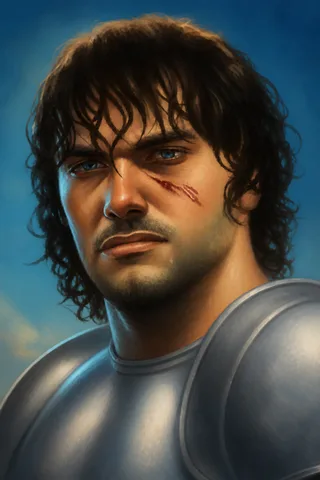
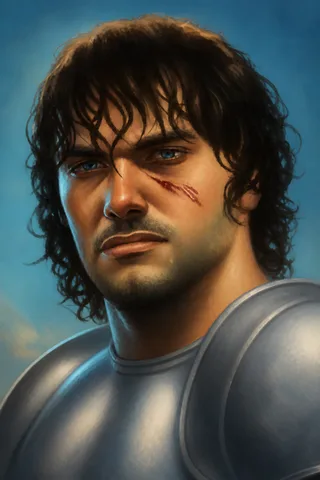
feat(web): refine role artwork presentation (#17)
* feat(web): brighten loyal servant role artwork

* feat(web): refine role help presentation

Changed region(s): [[0.0, 0.0, 1.0, 0.625], [0.9062, 0.4688, 0.9688, 0.5625]]

diff --git a/apps/web/src/HelpDialog.tsx b/apps/web/src/HelpDialog.tsx
@@ -3,6 +3,7 @@ import {
   useRef,
   type KeyboardEvent,
 } from 'react'
+import { ChevronDown } from 'lucide-react'
 
 import { loyaltyForRole, type Role } from '@avalon/game'
 
@@ -187,7 +188,7 @@ function RulesHelpPanel({ playerCount }: { playerCount?: number }) {
         <details className="group rounded-2xl border border-white/10 bg-slate-950/35">
           <summary className="flex min-h-12 cursor-pointer list-none items-center justify-between gap-3 px-4 py-3 font-semibold text-slate-100 focus-visible:outline-none focus-visible:ring-2 focus-visible:ring-inset focus-visible:ring-amber-300">
             关键规则
-            <span aria-hidden="true" className="text-slate-400 transition group-open:rotate-180">⌄</span>
+            <ChevronDown aria-hidden="true" className="size-5 shrink-0 self-center text-slate-400 transition-transform group-open:rotate-180" strokeWidth={2} />
           </summary>
           <ul className="space-y-2 border-t border-white/10 px-4 py-4 text-sm leading-6 text-slate-300">
             {HELP_KEY_RULES.map((rule) => <li key={rule}>• {rule}</li>)}
@@ -197,7 +198,7 @@ function RulesHelpPanel({ playerCount }: { playerCount?: number }) {
         <details className="group rounded-2xl border border-white/10 bg-slate-950/35">
           <summary className="flex min-h-12 cursor-pointer list-none items-center justify-between gap-3 px-4 py-3 font-semibold text-slate-100 focus-visible:outline-none focus-visible:ring-2 focus-visible:ring-inset focus-visible:ring-amber-300">
             人数配置
-            <span aria-hidden="true" className="text-slate-400 transition group-open:rotate-180">⌄</span>
+            <ChevronDown aria-hidden="true" className="size-5 shrink-0 self-center text-slate-400 transition-transform group-open:rotate-180" strokeWidth={2} />
           </summary>
           <div className="overflow-x-auto border-t border-white/10 p-3 sm:p-4">
             <table className="w-full min-w-[38rem] text-left text-xs sm:text-sm">
@@ -305,7 +306,7 @@ function HelpRoleCard({
             <dd className="mt-1 text-slate-400">{guidance.objective}</dd>
           </div>
           <div>
-            <dt className="font-semibold text-slate-200">新手提示</dt>
+            <dt className="font-semibold text-slate-200">提示</dt>
             <dd className="mt-1 text-slate-400">{guidance.beginnerTip}</dd>
           </div>
         </dl>
@@ -316,7 +317,7 @@ function HelpRoleCard({
 
 function HelpRoleArtwork({ role }: { role: Role }) {
   const artwork = HELP_ROLE_ARTWORK[role]
-  const className = 'w-[5.5rem] overflow-hidden rounded-xl border border-white/15 bg-slate-950/35 sm:aspect-[4/3] sm:w-auto'
+  const className = 'relative isolate w-[5.5rem] overflow-hidden rounded-xl border border-white/15 bg-slate-950/35 sm:aspect-[4/3] sm:w-auto'
 
   if (artwork === undefined) {
     return (
@@ -328,18 +329,41 @@ function HelpRoleArtwork({ role }: { role: Role }) {
     )
   }
 
+  const src = `/images/roles/${artwork.slug}-674.webp`
+  const srcSet = `/images/roles/${artwork.slug}-320.webp 320w, /images/roles/${artwork.slug}-480.webp 480w, /images/roles/${artwork.slug}-674.webp 674w`
+
   return (
     <div aria-hidden="true" className={className}>
       <img
         alt=""
-        className="block h-auto w-full sm:size-full sm:object-contain"
+        aria-hidden="true"
+        className="absolute inset-0 hidden size-full scale-[1.08] object-cover blur-[18px] brightness-[.55] saturate-[.8] sm:block"
+        data-help-role-artwork-backdrop={role}
+        decoding="async"
+        height={artwork.height}
+        loading="lazy"
+        sizes={HELP_ROLE_ARTWORK_SIZES}
+        src={src}
+        srcSet={srcSet}
+        width={artwork.width}
+      />
+      <div
+        aria-hidden="true"
+        className="absolute inset-0 hidden sm:block"
+        style={{
+          backgroundImage: 'radial-gradient(ellipse at center, transparent 35%, rgb(2 6 23 / 0.18) 72%, rgb(2 6 23 / 0.42) 100%), linear-gradient(to bottom, rgb(15 23 42 / 0.02) 0%, rgb(15 23 42 / 0.08) 55%, rgb(2 6 23 / 0.30) 100%)',
+        }}
+      />
+      <img
+        alt=""
+        className="relative z-10 block h-auto w-full sm:size-full sm:object-contain"
         data-help-role-artwork={role}
         decoding="async"
         height={artwork.height}
         loading="lazy"
         sizes={HELP_ROLE_ARTWORK_SIZES}
-        src={`/images/roles/${artwork.slug}-674.webp`}
-        srcSet={`/images/roles/${artwork.slug}-320.webp 320w, /images/roles/${artwork.slug}-480.webp 480w, /images/roles/${artwork.slug}-674.webp 674w`}
+        src={src}
+        srcSet={srcSet}
         width={artwork.width}
       />
     </div>

diff --git a/apps/web/tests/HelpDialog.test.tsx b/apps/web/tests/HelpDialog.test.tsx
@@ -4,6 +4,21 @@ import { describe, expect, it, vi } from 'vitest'
 import { HelpDialog } from '../src/HelpDialog'
 
 describe('HelpDialog', () => {
+  it('uses shared Lucide disclosure icons for the rules sections', () => {
+    const html = renderToStaticMarkup(
+      <HelpDialog
+        activeTab="rules"
+        focusRoles={false}
+        onActiveTabChange={vi.fn()}
+        onRequestClose={vi.fn()}
+        open
+        requestID={1}
+      />,
+    )
+
+    expect(html.match(/lucide-chevron-down/g)).toHaveLength(2)
+  })
+
   it('renders semantic tabs and prioritizes contextual roles', () => {
     const html = renderToStaticMarkup(
       <HelpDialog
@@ -36,22 +51,42 @@ describe('HelpDialog', () => {
       />,
     )
 
-    expect(html.match(/data-help-role-artwork=/g) ?? []).toHaveLength(6)
-    expect(html).toContain('data-help-role-artwork="merlin"')
-    expect(html).toContain('/images/roles/merlin-320.webp 320w')
-    expect(html).toContain('/images/roles/merlin-480.webp 480w')
-    expect(html).toContain('/images/roles/merlin-674.webp 674w')
-    expect(html).toContain('/images/roles/loyal-servant-320.webp 320w')
-    expect(html).toContain('/images/roles/loyal-servant-480.webp 480w')
-    expect(html).toContain('/images/roles/loyal-servant-674.webp 674w')
-    expect(html).toContain('/images/roles/minion-320.webp 320w')
-    expect(html).toContain('/images/roles/minion-480.webp 480w')
-    expect(html).toContain('/images/roles/minion-674.webp 674w')
-    expect(html).toContain('sizes="(min-width: 1024px) 18rem, (min-width: 640px) 42vw, 5.5rem"')
-    expect(html).toMatch(/<img(?=[^>]*data-help-role-artwork="merlin")(?=[^>]*width="674")(?=[^>]*height="1010")[^>]*>/)
-    expect(html).toMatch(/<img(?=[^>]*data-help-role-artwork="assassin")(?=[^>]*width="674")(?=[^>]*height="1051")[^>]*>/)
-    expect(html).toMatch(/<img(?=[^>]*data-help-role-artwork="loyal_servant")(?=[^>]*width="674")(?=[^>]*height="1010")[^>]*>/)
-    expect(html).toMatch(/<img(?=[^>]*data-help-role-artwork="minion")(?=[^>]*width="674")(?=[^>]*height="1010")[^>]*>/)
+    const foregroundImages = html.match(/<img(?=[^>]*data-help-role-artwork=)[^>]*>/g) ?? []
+    const backdropImages = html.match(/<img(?=[^>]*data-help-role-artwork-backdrop=)[^>]*>/g) ?? []
+
+    expect(foregroundImages).toHaveLength(6)
+    expect(backdropImages).toHaveLength(6)
+
+    const artworkByRole = [
+      { height: 1010, role: 'merlin', slug: 'merlin' },
+      { height: 1010, role: 'percival', slug: 'percival' },
+      { height: 1010, role: 'loyal_servant', slug: 'loyal-servant' },
+      { height: 1051, role: 'assassin', slug: 'assassin' },
+      { height: 1010, role: 'morgana', slug: 'morgana' },
+      { height: 1010, role: 'minion', slug: 'minion' },
+    ] as const
+    for (const { height, role, slug } of artworkByRole) {
+      const foregroundImage = foregroundImages.find((image) => image.includes(`data-help-role-artwork="${role}"`))
+      const backdropImage = backdropImages.find((image) => image.includes(`data-help-role-artwork-backdrop="${role}"`))
+
+      expect(foregroundImage).toBeDefined()
+      expect(backdropImage).toBeDefined()
+      if (foregroundImage === undefined || backdropImage === undefined) {
+        throw new Error(`Missing responsive artwork layers for ${role}`)
+      }
+      for (const image of [foregroundImage, backdropImage]) {
+        expect(image).toContain(`/images/roles/${slug}-320.webp 320w`)
+        expect(image).toContain(`/images/roles/${slug}-480.webp 480w`)
+        expect(image).toContain(`/images/roles/${slug}-674.webp 674w`)
+        expect(image).toContain(`sizes="(min-width: 1024px) 18rem, (min-width: 640px) 42vw, 5.5rem"`)
+        expect(image).toContain('width="674"')
+        expect(image).toContain(`height="${height}"`)
+        expect(image).toContain('loading="lazy"')
+        expect(image).toContain('decoding="async"')
+      }
+      expect(backdropImage).toContain('alt=""')
+      expect(backdropImage).toContain('aria-hidden="true"')
+    }
     expect(html).not.toContain('data-role-artwork-placeholder=')
   })
 

diff --git a/tests/e2e/specs/dialogs.spec.ts b/tests/e2e/specs/dialogs.spec.ts
@@ -129,7 +129,13 @@ test('help center supports contextual role guidance and keyboard dismissal', asy
   const cards = help.locator('[data-help-role]')
   await expect(cards.nth(0)).toHaveAttribute('data-help-role', 'percival')
   await expect(cards.nth(1)).toHaveAttribute('data-help-role', 'morgana')
-  await expect(help.locator('[data-help-role-artwork]')).toHaveCount(6)
+  const foregroundArtwork = help.locator('[data-help-role-artwork]')
+  const backdropArtwork = help.locator('[data-help-role-artwork-backdrop]')
+  await expect(foregroundArtwork).toHaveCount(6)
+  await expect(backdropArtwork).toHaveCount(6)
+  expect(await backdropArtwork.evaluateAll((images) => images.every(
+    (image) => getComputedStyle(image).display === 'none',
+  ))).toBe(true)
 
   const percivalCard = cards.nth(0)
   const artworkBox = await percivalCard
@@ -141,4 +147,39 @@ test('help center supports contextual role guidance and keyboard dismissal', asy
   expect(artworkBox).not.toBeNull()
   expect(roleNameBox).not.toBeNull()
   expect(artworkBox!.x + artworkBox!.width).toBeLessThan(roleNameBox!.x)
+
+  await page.setViewportSize({ width: 1280, height: 720 })
+  expect(await backdropArtwork.evaluateAll((images) => images.every((image) => {
+    const style = getComputedStyle(image)
+    return style.display !== 'none' && style.objectFit === 'cover'
+  }))).toBe(true)
+  expect(await foregroundArtwork.evaluateAll((images) => images.every(
+    (image) => getComputedStyle(image).objectFit === 'contain',
+  ))).toBe(true)
+})
+
+test('help tabs stay above scrolled role artwork on narrow screens', async ({
+  page,
+}) => {
+  await page.setViewportSize({ width: 369, height: 812 })
+  await page.goto('/')
+
+  await page.getByRole('button', { name: '帮助说明' }).click()
+  const help = page.getByRole('dialog', { name: '帮助说明' })
+  const rulesTab = help.getByRole('tab', { name: '游戏基础规则' })
+  await help.getByRole('tab', { name: '角色说明' }).click()
+  await help.evaluate((dialog) => {
+    dialog.scrollTop = 80
+  })
+
+  const rulesTabIsTopmost = await rulesTab.evaluate((tab) => {
+    const rect = tab.getBoundingClientRect()
+    const topmostElement = document.elementFromPoint(
+      rect.x + rect.width / 2,
+      rect.y + rect.height / 2,
+    )
+    return topmostElement === tab || tab.contains(topmostElement)
+  })
+
+  expect(rulesTabIsTopmost).toBe(true)
 })

diff --git a/apps/web/src/LobbyView.tsx b/apps/web/src/LobbyView.tsx
@@ -1,4 +1,5 @@
 import { useEffect, useState } from 'react'
+import { RefreshCw } from 'lucide-react'
 
 import type {
   AvalonRoomStatus,
@@ -205,7 +206,7 @@ export function LobbyView({
         </section>
 
         <section className="mt-6 rounded-3xl border border-white/10 bg-white/[0.06] p-5 shadow-2xl shadow-black/20 backdrop-blur sm:p-7">
-          <div className="flex items-center justify-between gap-4"><div><h2 className="text-2xl font-semibold text-white">进行中的房间</h2><p className="mt-1 text-sm text-slate-400">选择一个房间加入，或继续尚未结束的对局。</p></div><button aria-label="刷新房间列表" className={neutralIconButton} onClick={onRefresh} title="刷新房间列表" type="button"><svg aria-hidden="true" className="h-5 w-5" fill="none" stroke="currentColor" strokeWidth="2" viewBox="0 0 24 24"><path d="M20 11a8 8 0 1 0 2 5.5M20 4v7h-7" strokeLinecap="round" strokeLinejoin="round" /></svg></button></div>
+          <div className="flex items-center justify-between gap-4"><div><h2 className="text-2xl font-semibold text-white">进行中的房间</h2><p className="mt-1 text-sm text-slate-400">选择一个房间加入，或继续尚未结束的对局。</p></div><button aria-label="刷新房间列表" className={neutralIconButton} onClick={onRefresh} title="刷新房间列表" type="button"><RefreshCw aria-hidden="true" className="size-5" strokeWidth={2} /></button></div>
           <div className="mt-6">{renderSection(sections[0], { showHeading: false })}</div>
           <div className="mt-8">{renderSection(sections[1], { secondary: true })}</div>
         </section>

diff --git a/apps/web/tests/LobbyView.test.tsx b/apps/web/tests/LobbyView.test.tsx
@@ -106,6 +106,12 @@ function renderLobby(overrides: Partial<LobbyViewProps> = {}) {
 }
 
 describe('LobbyView room access', () => {
+  it('uses the shared Lucide refresh icon without changing the button name', () => {
+    const html = renderLobby()
+
+    expect(html).toMatch(/<button[^>]*aria-label="刷新房间列表"[^>]*>[\s\S]*?lucide-refresh-cw[\s\S]*?<\/button>/)
+  })
+
   it('uses the production homepage positioning and avoids implementation copy', () => {
     const html = renderLobby({
       matches: [openRoom, currentRoom, finishedRoom],

diff --git a/docs/PROJECT_STATUS.md b/docs/PROJECT_STATUS.md
@@ -2,7 +2,7 @@
 
 > 这是项目进度的唯一维护入口。更新代码或完成一个独立模块后，同时更新本文件的状态、验收条件和提交记录。
 >
-> 最后更新：2026-09-01
+> 最后更新：2026-09-03
 
 ## 当前结论
 
@@ -26,8 +26,8 @@
 - 新房间默认成对启用 Percival 与 Morgana，也可在创建时关闭并使用基础角色；缺少持久化角色配置的旧房间继续使用基础角色。开局在首次组队前依次进行全员身份查看、邪恶阵营互认、梅林辨认邪恶阵营和按配置启用的帕西维尔辨认梅林候选；当前版本不显示或使用倒计时，每步等待全部参与者确认，其他玩家保持在不透明幕布后。
 - Web 使用仅保存在浏览器的随机默认名称与八款装饰头像；主页 Header 用户中心可修改资料，存在任何活动房间座位时锁定名称和头像。创建/加入直接使用当前资料，不再弹出名称确认；同一房间允许同名并以座位号区分。
 - 创建房间先打开配置弹窗，当前支持 5–10 人选择、阵营/任务人数摘要与 Percival/Morgana 成对配置。
-- Web 提供统一“帮助说明”：主页桌面端使用文字入口、移动端收为 44px 图标，等待大厅和游戏页使用图标入口；弹窗分为“游戏基础规则”和“角色说明”两个 Tab。创建配置中的角色问号会直接打开角色说明，将帕西维尔与莫甘娜前置并短暂脉冲高亮；Merlin、Percival、Assassin、Morgana 使用响应式角色立绘，Loyal Servant 与 Minion 暂留矩形素材位。
-- Web 角色立绘已建立显式素材转换流程：无损 PNG 母版保存在 `images/source/roles/`，`apps/web` 使用 Sharp 按原比例生成 `320w`、`480w`、`674w` WebP，并保留透明通道、验证输出后原子替换派生文件；以下划线开头的保留母版不参与转换。当前已生成 Assassin、Merlin、Mordred、Morgana、Oberon、Percival 六个角色的三档素材；帮助说明已使用原生 `srcset` 接入 Merlin、Percival、Assassin、Morgana，Loyal Servant 与 Minion 暂留占位，游戏圆桌仍使用既有方形角色头像。
+- Web 提供统一“帮助说明”：主页桌面端使用文字入口、移动端收为 44px 图标，等待大厅和游戏页使用图标入口；弹窗分为“游戏基础规则”和“角色说明”两个 Tab。创建配置中的角色问号会直接打开角色说明，将帕西维尔与莫甘娜前置并短暂脉冲高亮；Merlin、Percival、Loyal Servant、Assassin、Morgana、Minion 六个 MVP 角色均使用响应式角色立绘，宽屏 4:3 区域使用同图模糊背景填充并在上层完整显示清晰原图。
+- Web 角色立绘已建立显式素材转换流程：无损 PNG 母版保存在 `images/source/roles/`，`apps/web` 使用 Sharp 按原比例生成 `320w`、`480w`、`674w` WebP，并保留透明通道、验证输出后原子替换派生文件；以下划线开头的保留母版不参与转换。当前已为 Assassin、Loyal Servant、Merlin、Minion、Mordred、Morgana、Oberon、Percival 生成三档素材；帮助说明使用原生 `srcset` 接入六个 MVP 角色，游戏圆桌仍使用既有方形角色头像。
 - 系统通知统一使用最多三条的顶部 Toast；主页不提供通知历史入口。房间 Header 提供无未读徽标的操作日志，记录当前客户端观察到的公开加入/退出，以及开局、提案、结算投票、匿名任务结果、刺杀和胜负。
 - Web 主页和个人设备圆桌等待大厅已完成响应式重设计；大厅以当前玩家为底部锚点，在所有宽度采用同一套圆形座位 DOM。房主开局进入桌面中央，退出/解散进入顶部房间菜单；健康连接不显示状态，连续断线 8 秒后才在顶部提供手动重连。房间页在最低 320×568 竖屏与 568×320 横屏内按宽高可用空间缩放，不产生页面滚动。
 - 等待大厅支持玩家凭据授权的主动离座：普通玩家只释放自己的座位，房主解散整个房间；游戏开始后拒绝这两类操作，返回主页仍是保留座位的无损导航。
@@ -84,7 +84,7 @@
 | PostgreSQL 存储 | ✅ | `PostgresStorage`、schema、delta logs、列表过滤和 wipe 已实现；空闲连接错误由 Pool 监听器处理，活动查询错误在 boardgame.io Socket.IO 请求边界处理，两类日志都不记录 Client、连接信息或请求参数，本地集成测试可执行。 |
 | 创建/加入/列出房间 | ✅ | 创建与创建者入座由一个服务端操作原子完成；普通加入不接受客户端选择座位，而是在 match queue 内分配提交时的最低空座位。`@avalon/game` 使用共享 Zod schema 定义严格请求和公开房间目录，Server 通过推导类型构造允许列表，Web 在接收边界原子拒绝无效或重复数据并保留上一次有效限制状态。响应式主页将 lobby/playing 合并为进行中列表，满房显示“已满”，finished 房间单独分页展示。主页验证本机全部活动房间凭据，已加入房间置顶并直接进入；存在活动会话时禁用创建和其他房间的加入入口。等待大厅允许普通玩家凭据授权释放自己的座位，房间拥有者可解散房间，playing 状态拒绝两类操作。 |
 | 主页与等待大厅体验 | ✅ | 主页、创建配置、房间列表和等待提示已使用面向普通玩家的中文产品文案；公共按钮统一使用至少 44px 的触控尺寸和一致交互态。创建配置与退出/解散房间的业务弹窗共用原生 `ModalDialog`，统一管理打开、关闭、Escape、遮罩、危险色、视口内滚动及水平垂直居中；默认配置不显示开发控制入口。创建配置当前提供 5–10 人按钮、阵营构成、五次任务人数摘要和 Percival/Morgana 成对开关。等待大厅在 PC、平板和移动端使用同一套圆桌座位 DOM，当前玩家固定在底部，空位显示虚线头像与座位号；不再使用底部操作栏，房间拥有者开局位于桌面中央，退出/解散位于顶部房间菜单。窄屏使用“等待创建者”等紧凑等待文案，并保留完整的可访问名称；断线状态在窄屏收为 44px 图标，等待大厅暂时以重连控件替代不可用的房间操作入口。房间壳层仅使用 `100dvh` 并关闭 overscroll，避免 iOS Chrome 的 `100vh` 包含动态工具栏而产生页面滚动；主页仍可按内容滚动。高度至少 421px 的横屏会回收 Header 中部空白供圆桌舞台使用，同时保持 Header 左右内容位于更高层级；5–6 人桌底部座位与裁剪边界至少保留 24px，7–10 人桌会向下补偿以保护顶部密集座位。Playwright 使用 5、7、10 人房间在 320×568、568×320、390×844、768×1024、1024×768、1077×722、1280×685、1440×900 验证页面无滚动、座位不被面板裁切、Header 左右内容不与座位重叠、座位与中央区无实质重叠，以及开局、选队和投票可操作。 |
-| 游戏与角色帮助 | ✅ | 统一宽版弹窗提供“游戏基础规则”和“角色说明”语义化 Tab；基础规则包含阵营目标、回合流程、关键规则及 5–10 人配置表，房间内会标出当前人数。角色说明覆盖 Merlin、Percival、Loyal Servant、Assassin、Morgana、Minion 的阵营、能力、目标与新手提示。创建配置中的问号支持 hover/focus tooltip 和 click/touch 深入说明；上下文打开时帕西维尔与莫甘娜前置并以较平缓的节奏脉冲两次，`prefers-reduced-motion` 下关闭动画。移动端角色说明使用横向列表项，左侧保留 88×112 空白素材位、右侧显示完整说明；`sm` 及以上保持三列纵向卡片和 4:3 空白素材位。主页在移动端只显示 44×44 问号图标，`sm` 及以上显示“帮助说明”文字；等待大厅和游戏页继续使用图标入口。所有入口复用同一弹窗，支持方向键切换 Tab、Escape 关闭及焦点恢复。 |
+| 游戏与角色帮助 | ✅ | 统一宽版弹窗提供“游戏基础规则”和“角色说明”语义化 Tab；基础规则包含阵营目标、回合流程、关键规则及 5–10 人配置表，房间内会标出当前人数。角色说明覆盖 Merlin、Percival、Loyal Servant、Assassin、Morgana、Minion 的阵营、能力、目标与提示。创建配置中的问号支持 hover/focus tooltip 和 click/touch 深入说明；上下文打开时帕西维尔与莫甘娜前置并以较平缓的节奏脉冲两次，`prefers-reduced-motion` 下关闭动画。移动端角色说明使用横向列表项，左侧保留 88px 宽原比例立绘、右侧显示完整说明；`sm` 及以上保持三列纵向卡片和 4:3 图片区域，清晰前景完整显示，同图模糊背景负责填满剩余区域。主页在移动端只显示 44×44 问号图标，`sm` 及以上显示“帮助说明”文字；等待大厅和游戏页继续使用图标入口。所有入口复用同一弹窗，支持方向键切换 Tab、Escape 关闭及焦点恢复。 |
 | 玩家名称与入座入口 | ✅ | 浏览器首次使用从 24 个中世纪奇幻意象与 24 个身份词中组合随机中文名称（576 种组合），并随机选择八款装饰头像，一并保存在 `localStorage`；主页 Header 用户中心支持名称校验、头像选择和重新随机，跨标签页同步。只要本机仍保存并验证出活动房间座位，即使返回主页也只展示锁定资料，真正退出/解散后才恢复编辑。创建和加入直接使用当前资料，不再询问名称；客户端和服务端共同限制 trim 后 1–24 字符。同一房间允许同名，所有公开日志使用名称加座位号区分；client ID 仍防止同一浏览器重复占座。头像采用 ImperialOctopus/avalon-printable 的八款角色图标并按 CC BY 4.0 署名，但仅作为装饰，不表达隐藏角色；用户中心的“素材与许可”可用键盘展开与折叠，折叠时不暴露许可链接。 |
 | 通知与房间操作日志 | ✅ | 系统通知统一显示为顶部 Toast：桌面右上、移动端顶部居中，普通/成功 4 秒、错误 8 秒，最多保留三条且可手动关闭；主页不显示铃铛或通知历史。房间 Header 使用日志图标且不显示未读圆点/数量，桌面为右侧抽屉、移动端为底部抽屉；日志按旧到新记录公开玩家操作，不含时间戳、清空或分页。等待房间只记录当前客户端实际观察到的加入/退出；开局后可从公开状态重建开局、提案、已结算的逐人投票、匿名成功/失败牌总数、刺杀目标和胜负，不读取 viewer 私密信息。 |
 | 座位绑定与重连 | ✅ | 房间路由、按房间保存凭据、client ID 防重复占座和自动重新连接已实现。等待房间可使用当前 seat credential 换到空座位，credential 和房间拥有者身份一起重绑到目标；请求期间使用可续租的浏览器全局 transition marker 暂停其他标签页的过期源座位失效处理。丢失、超时或瞬态响应转为 uncertain 后，浏览器先通过真实换座客户端精确重放原 match/source/credential/target，让服务端 match queue 与目标凭据幂等检查确定结算顺序；只有稳定拒绝才继续校验源与目标，网络、5xx 或无效成功响应会保留 marker 和会话等待重试。旧标签页只能更新或清理仍与相同 opaque transition ID 及精确源会话匹配的状态。健康连接不占用界面；断线时顶部先显示自动恢复状态，连续失败 8 秒后才出现手动重连。房间首次加载与轮询通过只返回 204/403/404 的服务端端点校验私有 seat credential；公开 session ID 仅作提前失效优化，不能授权会话。 |
@@ -164,7 +164,13 @@
 
 ## 当前验证基线
 
-最近一次验证日期：2026-09-01
+最近一次验证日期：2026-09-03
+
+2026-09-03 PC 角色说明卡片渐变层次优化验证：在同图双层填充结构不变的基础上，将宽屏装饰背景调整为 55% 亮度和 80% 饱和度；遮罩改为中央透亮、边缘由 18% 收暗至 42% 的径向渐变，并叠加顶部 2%、中部 8%、底部 30% 的纵向深色渐变，形成中央聚焦、边缘与底部自然回落的海报式层次。应用内浏览器在 1280×720 检查两排六张角色卡，确认双渐变均生效、前景保持 `object-contain`、背景没有黑框或光晕，页面无横向溢出；390×844 下六个背景和六个遮罩均为 `display:none`，前景继续保持约 88px 宽原比例布局。角色图片容器使用独立 stacking context，使内部前景层不会越过弹窗 sticky Header；369×812 下将角色图滚到 Tab 后方时，浏览器命中测试和实际页面都确认“游戏基础规则”仍是最上层可见、可点击元素。六张角色卡的“新手提示”标题统一精简为“提示”，466×812 页面统计六处新标题且无旧标题残留。主页房间列表刷新按钮改用 Lucide `RefreshCw`，帮助规则折叠项改用 20px Lucide `ChevronDown`；466×812 实测两类图标均与 44px 按钮或 48px 折叠栏精确居中，折叠箭头展开后旋转 180°。各档视口控制台均无 warning/error。Web 242 tests、Web build 与 E2E typecheck 均 exit 0，dialogs Playwright 4 passed；build 保留既有单个 557.38 kB minified / 167.65 kB gzip JavaScript chunk 建议性警告，Playwright 仅出现既有 `NO_COLOR`/`FORCE_COLOR` Node 警告。本次未运行完整 Playwright、lint、真实 LAN 或 PostgreSQL 验收。
+
+2026-09-02 PC 角色说明卡片双层背景填充验证：六个角色的 4:3 图片区域在 `sm` 及以上使用同一响应式 WebP 作为 `object-cover` 装饰背景，参数为 1.08 倍缩放、18px 模糊、50% 亮度和 70% 饱和度，中间叠加轻量深色渐变；清晰前景继续使用 `object-contain` 并保留原 `srcset`、`sizes`、宽高、lazy loading 与 async decoding。装饰背景使用空 alt 和 `aria-hidden`，移动端保持隐藏。应用内浏览器在 1280×720 检查两排六张角色卡，画框均约为 280×210、背景完整填充且前景未裁切；390×844 下六个背景均为 `display:none`，立绘继续保持约 88px 宽原比例布局。两档视口均无横向溢出，控制台无 warning/error。Web 240 tests 与 Web build 均 exit 0；build 保留既有单个 557.25 kB minified / 167.63 kB gzip JavaScript chunk 建议性警告。本次未运行完整 Playwright、lint、真实 LAN 或 PostgreSQL 验收。
+
+2026-09-02 Loyal Servant 背景调色与素材验证：以 Percival 为主要参考，仅调整 `Loyal-Servant.png` 的蓝色背景；顶部角落亮度由 `L*=25.33` 提升至 `36.09`，外侧背景由 `32.85` 提升至 `42.25`，外侧线性亮度比 Percival 低 `0.12 EV`，背景饱和度相对降低约 21%，蓝色色相向青蓝移动约 4°。面部保护区和画面下方 28% 与原图逐像素一致，无高光或暗部剪切。定向转换生成 `320×480`、`480×719`、`674×1010` 三档 sRGB WebP。应用内浏览器在 1280×720、DPR 2 下选用 674w，在 390×844、DPR 1 下选用 320w；桌面三列卡片和移动端横向卡片均正常显示，页面无横向溢出，控制台无 warning/error。Web 240 tests 和 Web build 均 exit 0；build 保留既有单个 556.76 kB minified / 167.48 kB gzip JavaScript chunk 建议性警告。本次未运行完整 Playwright、lint、真实 LAN 或 PostgreSQL 验收。
 
 2026-09-01 帮助说明角色图片接入验证：角色说明为 Merlin、Percival、Assassin、Morgana 渲染三档 WebP `srcset`，浏览器根据 `sizes` 和显示密度原生选择资源；Loyal Servant 与 Minion 继续显示原占位，不使用不对应的 Mordred 或 Oberon 素材。应用内浏览器在 1280×720、DPR 2 下实际选择 674w，在 390×844、DPR 1 下实际选择 320w；移动端仅固定图片宽度并使用固有宽高自动计算高度，三张常规图片实测显示比例为 0.6667，Assassin 为 0.6413，均与文件比例一致，`sm` 以上继续保留当前 4:3 容器。六张角色卡均未越出视口，页面无横向溢出且控制台无 error/warning。Web 240 tests、Web build、lint 均 exit 0；build 保留单个 556.66 kB minified / 167.46 kB gzip JavaScript chunk 建议性警告。本次未运行完整 Playwright、真实 LAN 或 PostgreSQL 验收。
 
